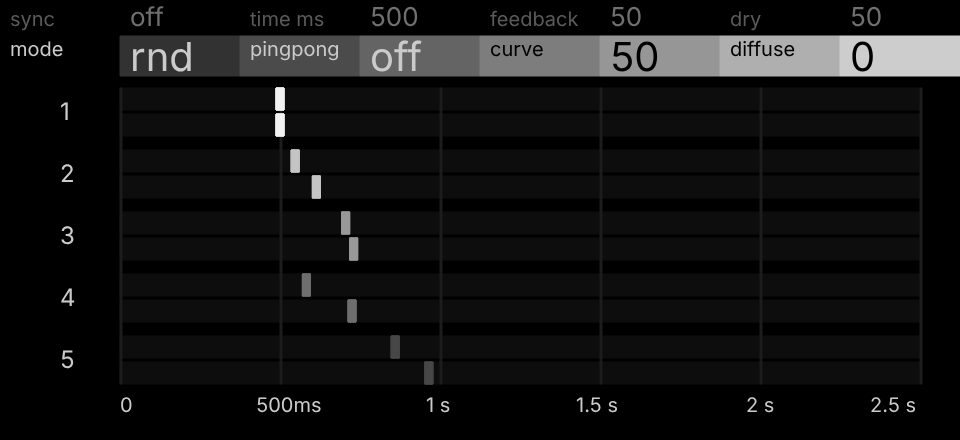
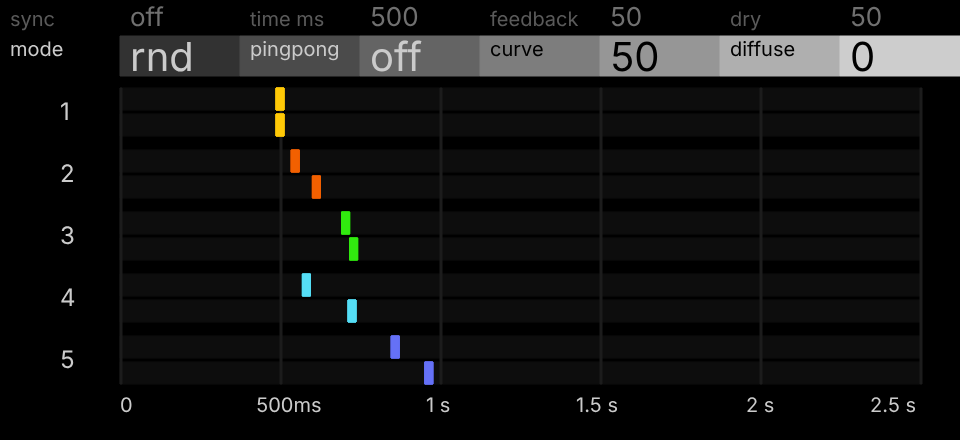
README: colour screenshots, the grey design beside them
Claude-Session: https://claude.ai/code/session_014U9U8dCwzZy18jRwbzjUJg

diff --git a/README.md b/README.md
@@ -21,9 +21,18 @@ round.
 | ![Sync 1/4, four taps, Curve 85](docs/screens/curve.png) | |
 | **Curve 85:** with Sync on at 1/4, the taps crowd towards Time | |
 
-These are rendered from Comet's own page code (`display.cpp` and
-`panel.svg.fragment`), frame for frame what the OP-XY draws; only the font
-differs from the device's.
+With **Grayscale machine graphics** on in the builder, Comet draws its own grey
+design instead, each tap a grey of its own:
+
+![The grey design: turning Time with five spread taps](docs/screens/grayscale/time.gif)
+
+| | |
+| --- | --- |
+| ![Grey design: five taps, Deviate 100, Mode inc](docs/screens/grayscale/inc.png) | ![Grey design: Pingpong on](docs/screens/grayscale/pingpong.png) |
+
+These are rendered from Comet's own page code (`display.cpp` with
+`panel.svg.fragment`, or `panel.grayscale.svg.fragment` for the grey design),
+frame for frame what the OP-XY draws; only the font differs from the device's.
 
 
 Comet is built on the core Ping Pong (Open-XY contributors, MIT), which is
